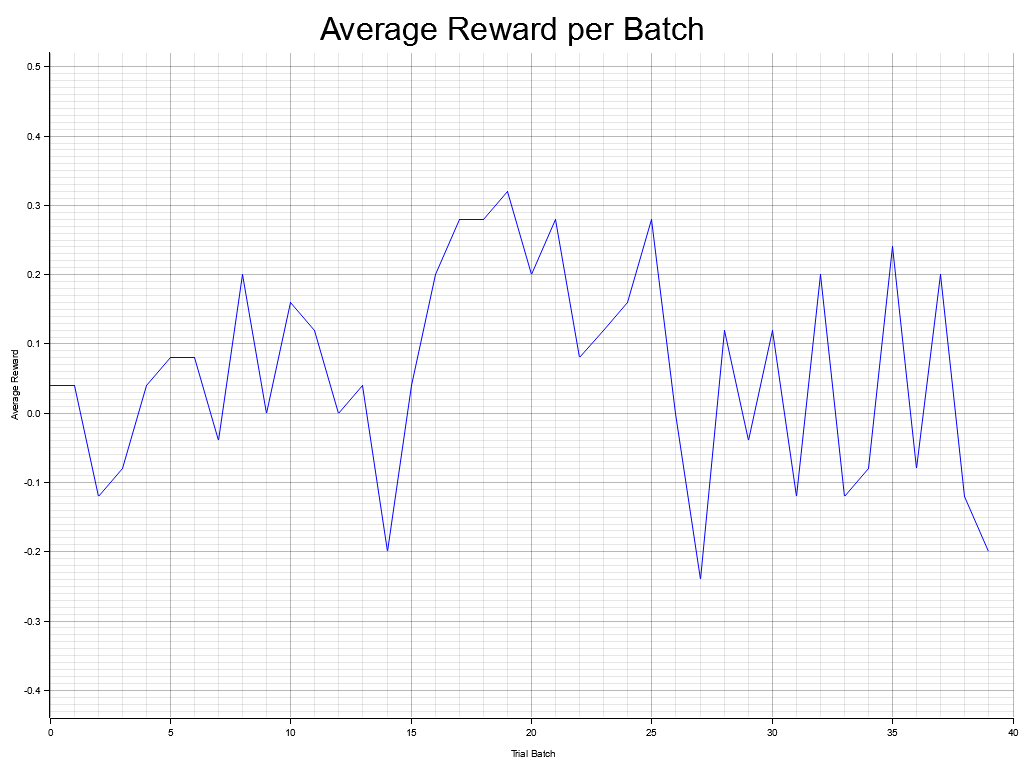
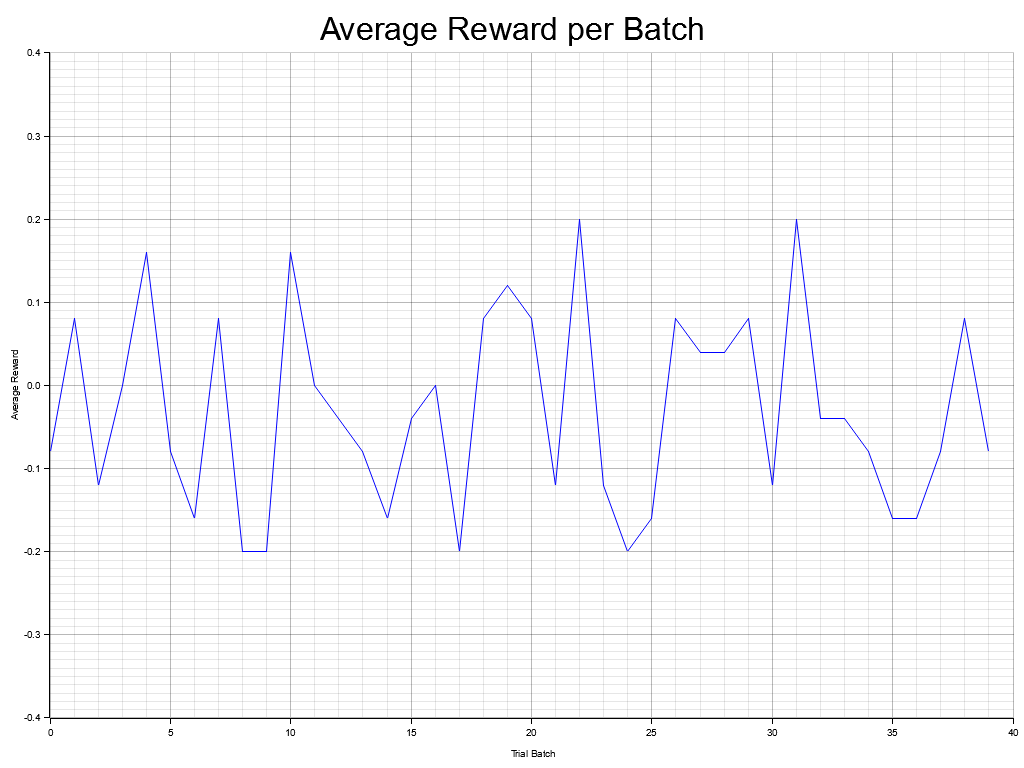
Update synapse delay and learning rate parameters for improved simulation dynamics

Changed region(s): [[0.0312, 0.0625, 1.0, 0.9375]]

diff --git a/src/constants.rs b/src/constants.rs
@@ -1,12 +1,12 @@
 pub const MIN_SYNAPSE_DELAY_MS: f32 = 1.0; // Minimum synapse delay in ms
-pub const MAX_SYNAPSE_DELAY_MS: f32 = 5.0; // Maximum synapse delay in ms
+pub const MAX_SYNAPSE_DELAY_MS: f32 = 2.0; // Maximum synapse delay in ms
 pub const MIN_SYNAPSE_WEIGHT: f32 = -1.0;
 pub const MAX_SYNAPSE_WEIGHT: f32 = 1.0;
-pub const MIN_REFRACTORY_PERIOD_MS: f32 = 1.0; // Minimum neuron refractory period in ms
+pub const MIN_REFRACTORY_PERIOD_MS: f32 = 5.0; // Minimum neuron refractory period in ms
 pub const MAX_REFRACTORY_PERIOD_MS: f32 = 10.0; //
 pub const MIN_NEURON_DECAY_RATE: f32 = 0.002; // Minimum neuron decay rate
 pub const MAX_NEURON_DECAY_RATE: f32 = 0.05;
 pub const MIN_NEURON_THRESHOLD: f32 = 1.0; // Minimum neuron firing threshold
 pub const MAX_NEURON_THRESHOLD: f32 = 1.0; // Maximum neuron
 pub const REWARD_AVERAGE_DURATION: f32 = 25.0; // 20 ms
-pub const LEARNING_RATE: f32 = 0.015;
+pub const LEARNING_RATE: f32 = 0.01;

diff --git a/src/main.rs b/src/main.rs
@@ -101,7 +101,7 @@ fn main() {
         // --- This is the inner trial loop ---
         for _ in 0..TRIAL_WINDOW_STEPS {
             simulation.input_external_stimuli(network.neurons[input_idx].clone(), 1.0);
-            simulation.random_noise(-1.0, 1.0, 0.05);
+            simulation.random_noise(-1.0, 1.0, 0.2);
             simulation.step();
             // DO NOT apply reward here
         }
@@ -111,6 +111,7 @@ fn main() {
         let output_spiked_during_trial = {
             network.neurons[OUTPUT_NEURON_IDX].read().unwrap().time_of_last_fire() > last_spike_time_before_trial
         };
+        println!("Output spiked during trial: {}", output_spiked_during_trial);
 
         let reward: f32;
         if is_go_signal {

diff --git a/src/reward_system.rs b/src/reward_system.rs
@@ -32,10 +32,12 @@ impl RewardSystem {
         time: f32,
         spike_events: &Vec<Arc<RwLock<SpikeEvent>>>,
     ) {
+
         // We will iterate all the synapses so only send synapses which have been active lately.
         let average_reward = self.average_reward.get_mean(time).unwrap_or(0.0);
         let delta_reward = self.last_reward - average_reward;
         if delta_reward == 0.0 {return}
+        println!("Delta Reward: {}, {} spike events", delta_reward, spike_events.len());
 
         for spike_event in spike_events {
             // a_i(t) - a_i_avg(t)
